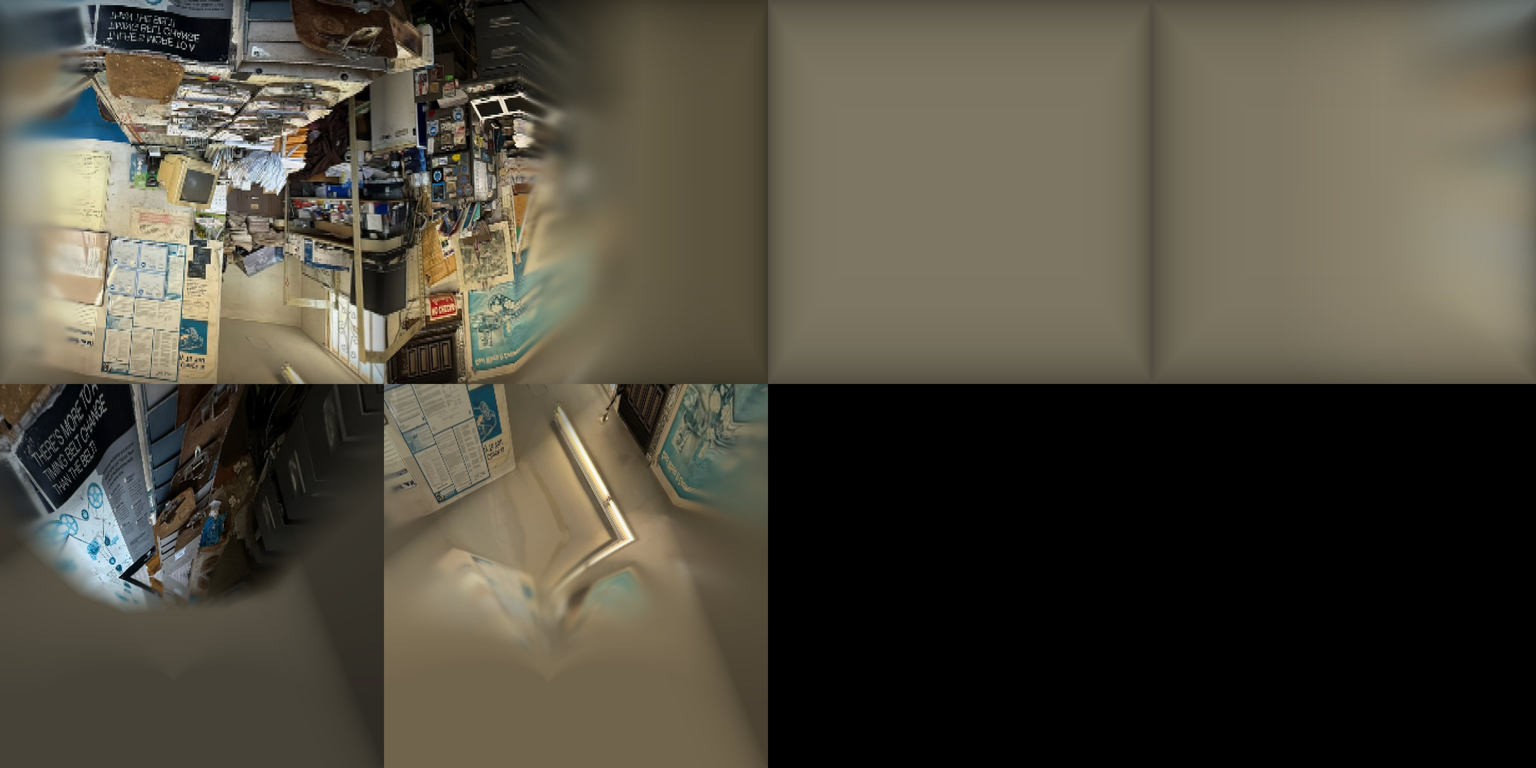
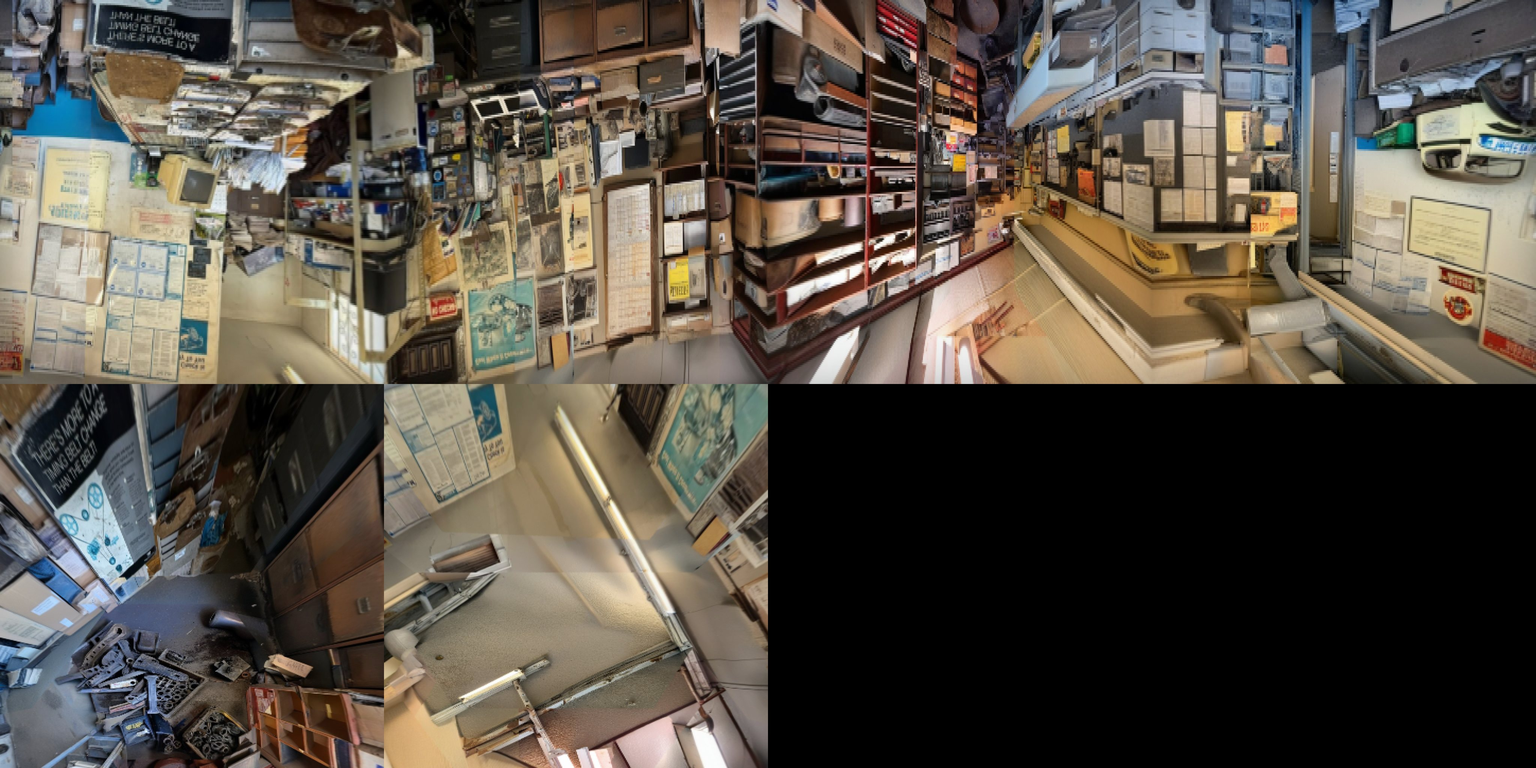
v0.6.0: surround the viewer with a generated shop
The room shell now samples a 360-degree panorama generated locally with
SDXL inpainting (scripts/outpaint_surround.py) instead of the mirrored blur.
Everything outside the photo's view is invented, not measured.

diff --git a/scripts/outpaint_surround.py b/scripts/outpaint_surround.py
@@ -1,0 +1,171 @@
+"""Generate the directions the photo never saw, as one 360-degree panorama around the eye.
+
+Local only: SDXL inpainting (diffusers/stable-diffusion-xl-1.0-inpainting-0.1, fp16) from the
+HF cache under D:\\Lustron\\models\\hf-cache. Nothing is uploaded. Generated pixels are invented.
+
+The panorama is equirectangular in the app's levelled room frame (content space: y up, -z forward):
+  lon = atan2(x, -z) (0 = straight ahead, + = to the right), lat = asin(y).
+It is seeded by projecting the photo through the corrected camera (square f, rotation from
+src/room-frame.js). Overlapping 90-degree views are then rendered from the panorama, their unknown
+pixels inpainted, and only newly generated pixels written back, so later views see earlier ones.
+
+Usage: python scripts/outpaint_surround.py <output-dir>
+Writes <out>/surround.jpg, <out>/surround-known.png (255 = photo, 128 = generated), views/*.jpg.
+"""
+import json, math, os, re, sys, time
+from pathlib import Path
+import numpy as np
+import cv2
+
+OUT = Path(sys.argv[1]); (OUT / 'views').mkdir(parents=True, exist_ok=True)
+ROOT = Path(__file__).resolve().parents[1]
+BLUNT = Path(r'D:\Lustron\experiments\BLUNT\2026-11-04_repair-office-single-image')
+PW, PH = 4096, 2048           # panorama size
+VIEW, FOV = 1024, 90.0        # generated view size and field of view
+F_SQUARE = 700.0              # square-pixel focal length at depth-map resolution (see make_room_shell.py)
+
+frame = (ROOT / 'src' / 'room-frame.js').read_text(encoding='utf-8')
+quat = json.loads(re.search(r'rotation: (\[[^\]]+\])', frame).group(1))
+from scipy.spatial.transform import Rotation
+R = Rotation.from_quat(quat).as_matrix()      # camera (y down, z forward) -> content
+K = np.load(BLUNT / 'output' / 'predicted-intrinsics.npy'); cx, cy = float(K[0, 2]), float(K[1, 2])
+photo = cv2.imread(str(BLUNT / 'input' / 'source.jpg'))   # BGR, 1536x2048
+ph, pw = photo.shape[:2]; sx = pw / (2 * cx); sy = ph / (2 * cy)
+
+def pano_dirs():
+    lon = (np.arange(PW) + 0.5) / PW * 2 * np.pi - np.pi
+    lat = np.pi / 2 - (np.arange(PH) + 0.5) / PH * np.pi
+    LON, LAT = np.meshgrid(lon, lat)
+    return np.stack([np.cos(LAT) * np.sin(LON), np.sin(LAT), -np.cos(LAT) * np.cos(LON)], -1)
+
+def dir_to_pano(d):
+    lon = np.arctan2(d[..., 0], -d[..., 2]); lat = np.arcsin(np.clip(d[..., 1], -1, 1))
+    return ((lon + np.pi) / (2 * np.pi) * PW - 0.5).astype(np.float32), ((np.pi / 2 - lat) / np.pi * PH - 0.5).astype(np.float32)
+
+# Seed with the photo.
+D = pano_dirs()
+cam = D @ R            # rows: content dir -> camera coords (R.T @ d)
+with np.errstate(divide='ignore', invalid='ignore'):
+    pu = F_SQUARE * cam[..., 0] / cam[..., 2] + cx; pv = F_SQUARE * cam[..., 1] / cam[..., 2] + cy
+inside = (cam[..., 2] > 0) & (pu >= 0.5) & (pu <= 2 * cx - 0.5) & (pv >= 0.5) & (pv <= 2 * cy - 0.5)
+pano = np.zeros((PH, PW, 3), np.uint8)
+mx = np.where(inside, pu * sx, -1).astype(np.float32); my = np.where(inside, pv * sy, -1).astype(np.float32)
+pano[:] = cv2.remap(photo, mx, my, cv2.INTER_LINEAR, borderMode=cv2.BORDER_CONSTANT)
+known = np.where(inside, 255, 0).astype(np.uint8)
+print(f'photo covers {inside.mean() * 100:.1f}% of the sphere', flush=True)
+
+def view_basis(yaw, pitch):
+    """Rotation whose columns are the view's right, up and back (+z) axes in content space."""
+    y, p = math.radians(yaw), math.radians(pitch)
+    Ry = np.array([[math.cos(y), 0, -math.sin(y)], [0, 1, 0], [math.sin(y), 0, math.cos(y)]])  # + yaw turns right
+    Rx = np.array([[1, 0, 0], [0, math.cos(p), -math.sin(p)], [0, math.sin(p), math.cos(p)]])   # + pitch looks up
+    return Ry @ Rx
+
+t = math.tan(math.radians(FOV) / 2)
+g = ((np.arange(VIEW) + 0.5) / VIEW * 2 - 1) * t
+GX, GY = np.meshgrid(g, -g)
+local = np.stack([GX, GY, -np.ones_like(GX)], -1); local /= np.linalg.norm(local, axis=-1, keepdims=True)
+
+def render(B):
+    d = local @ B.T
+    mxv, myv = dir_to_pano(d)
+    img = cv2.remap(pano, mxv, myv, cv2.INTER_LINEAR, borderMode=cv2.BORDER_WRAP)
+    msk = cv2.remap(known, mxv, myv, cv2.INTER_NEAREST, borderMode=cv2.BORDER_WRAP)
+    return img, msk
+
+def write_back(B, gen, gmask):
+    """Write generated pixels into unknown panorama pixels that this view sees."""
+    global pano, known
+    v = D @ B   # panorama directions in view coords
+    with np.errstate(divide='ignore', invalid='ignore'):
+        x = v[..., 0] / -v[..., 2]; y = v[..., 1] / -v[..., 2]
+    lim = t * 0.97
+    sel = (v[..., 2] < 0) & (np.abs(x) < lim) & (np.abs(y) < lim) & (known == 0)
+    gx = ((x / t + 1) / 2 * VIEW - 0.5).astype(np.float32); gy = ((-y / t + 1) / 2 * VIEW - 0.5).astype(np.float32)
+    sample = cv2.remap(gen, gx, gy, cv2.INTER_LINEAR, borderMode=cv2.BORDER_REFLECT)
+    pano[sel] = sample[sel]; known[sel] = 128
+    return int(sel.sum())
+
+BASE = ('photo inside a cluttered old auto repair shop office, faded car parts posters and notices on the walls, '
+        'shelves of boxes and parts, warm fluorescent light, realistic phone photo')
+NEG = 'people, person, hands, face, text, watermark, logo, blurry, distorted, fisheye, cartoon, painting, render, oversaturated'
+VIEWS = [  # (name, yaw, pitch, extra prompt) in order; each sees earlier results
+    ('front', 0, 0, 'cluttered service counter, posters'),
+    ('right-60', 60, 0, 'poster-covered wall, shelves of parts and boxes, office desk with old computer'),
+    ('left-60', -60, 0, 'poster-covered wall, filing cabinets, framed certificates, notice board'),
+    ('right-120', 120, 0, 'wall with shelves and a doorway to the repair garage'),
+    ('left-120', -120, 0, 'wall with a parts catalogue rack, chairs for customers'),
+    ('back', 180, 0, 'the shop front: glass entry door and a window with blinds, a customer chair, a small table with magazines'),
+    ('up-front', 0, 60, 'white ceiling with fluorescent tube light fixtures'),
+    ('up-right', 90, 60, 'white ceiling with fluorescent tube light fixtures'),
+    ('up-back', 180, 60, 'white ceiling with fluorescent tube light fixtures'),
+    ('up-left', -90, 60, 'white ceiling with fluorescent tube light fixtures'),
+    ('zenith', 0, 90, 'plain white painted ceiling, fluorescent tube light'),
+    ('down-front', 0, -60, 'worn grey concrete floor, scuffed, base of the counter'),
+    ('down-right', 90, -60, 'worn grey concrete floor, scuffed'),
+    ('down-back', 180, -60, 'worn grey concrete floor, scuffed, a rubber floor mat'),
+    ('down-left', -90, -60, 'worn grey concrete floor, scuffed'),
+    ('nadir', 0, -90, 'worn grey concrete floor seen from above, scuffed, a rubber floor mat'),
+]
+
+import torch
+from diffusers import StableDiffusionXLInpaintPipeline
+MODEL = Path(r'D:\Lustron\models\sdxl-inpainting-0.1')   # local copy of diffusers/stable-diffusion-xl-1.0-inpainting-0.1
+pipe = StableDiffusionXLInpaintPipeline.from_pretrained(str(MODEL), torch_dtype=torch.float16, variant='fp16', local_files_only=True)
+# Desktop apps hold ~2.5 GB of the 12 GB card; a full GPU load spilled into shared memory and stalled
+# (attempt 2 check hung >4 min on the second view). Offload keeps only the active part on the GPU.
+pipe.enable_model_cpu_offload(); pipe.set_progress_bar_config(disable=True)
+log = []
+start = time.time()
+LIMIT = int(os.environ.get("VIEW_LIMIT", len(VIEWS)))   # for quick checks
+for i, (name, yaw, pitch, extra) in enumerate(VIEWS[:LIMIT]):
+    B = view_basis(yaw, pitch)
+    img, msk = render(B)
+    unknown = (msk == 0).astype(np.uint8)
+    if unknown.mean() < 0.002:
+        log.append({'view': name, 'skipped': 'already known'}); continue
+    # Repaint a 12 px band of known pixels too, so the new content blends into what is there.
+    paint = cv2.dilate(unknown, np.ones((25, 25), np.uint8))
+    # Attempt 1 passed black holes and the model (strength 0.99) kept them nearly black. Pre-fill the
+    # holes with the surrounding colours (Telea at low resolution, blurred) plus noise to repaint from.
+    rng = np.random.default_rng(1105 + i)
+    if (unknown == 0).mean() > 0.01:
+        small = cv2.inpaint(cv2.resize(img, (256, 256), interpolation=cv2.INTER_AREA),
+                            cv2.resize(unknown, (256, 256), interpolation=cv2.INTER_NEAREST), 20, cv2.INPAINT_TELEA)
+        base = cv2.GaussianBlur(cv2.resize(small, (VIEW, VIEW), interpolation=cv2.INTER_CUBIC).astype(np.float32), (0, 0), 10)
+    else:
+        base = np.full((VIEW, VIEW, 3), (112, 128, 142), np.float32)   # BGR warm grey: plaster wall tone
+    pre = np.clip(base + rng.normal(0, 20, base.shape), 0, 255).astype(np.uint8)
+    seeded = np.where(unknown[..., None] > 0, pre, img)
+    from PIL import Image
+    for attempt in range(3):   # retry if the new area still comes out dark
+        gen = pipe(prompt=f'{BASE}, {extra}', negative_prompt=NEG,
+                   image=Image.fromarray(cv2.cvtColor(seeded, cv2.COLOR_BGR2RGB)), mask_image=Image.fromarray(paint * 255),
+                   width=VIEW, height=VIEW, num_inference_steps=32, guidance_scale=7.0, strength=0.99,
+                   generator=torch.Generator('cuda').manual_seed(1105 + i + 100 * attempt)).images[0]
+        gen = cv2.cvtColor(np.array(gen), cv2.COLOR_RGB2BGR)
+        new_mean = float(gen[unknown > 0].mean()) if unknown.any() else 255.0
+        if new_mean > 45: break
+        print(json.dumps({'view': name, 'retry': attempt + 1, 'new_area_mean': round(new_mean, 1)}), flush=True)
+    # Keep known pixels exactly; feather the generated band into them.
+    soft = cv2.GaussianBlur(paint.astype(np.float32), (0, 0), 6)[..., None]
+    w = np.maximum(soft, unknown[..., None].astype(np.float32))
+    blended = (gen * w + img * (1 - w)).astype(np.uint8)
+    cv2.imwrite(str(OUT / 'views' / f'{i:02d}-{name}.jpg'), blended, [cv2.IMWRITE_JPEG_QUALITY, 90])
+    cv2.imwrite(str(OUT / 'views' / f'{i:02d}-{name}-mask.png'), unknown * 255)
+    n = write_back(B, blended, unknown)
+    log.append({'view': name, 'yaw': yaw, 'pitch': pitch, 'unknown_fraction': round(float(unknown.mean()), 3), 'written': n,
+                'new_area_mean': round(new_mean, 1), 'attempts': attempt + 1,
+                'seconds': round(time.time() - start, 1)})
+    print(json.dumps(log[-1]), flush=True)
+
+# Any remaining holes (seams at the poles) get filled by inpainting in panorama space.
+holes = (known == 0).astype(np.uint8)
+if holes.any(): pano = cv2.inpaint(pano, holes, 5, cv2.INPAINT_TELEA)
+cv2.imwrite(str(OUT / 'surround.jpg'), pano, [cv2.IMWRITE_JPEG_QUALITY, 90])
+cv2.imwrite(str(OUT / 'surround-known.png'), known)
+json.dump({'model': 'diffusers/stable-diffusion-xl-1.0-inpainting-0.1 fp16', 'panorama': [PW, PH], 'view': [VIEW, FOV],
+           'focal': F_SQUARE, 'rotation_quat': quat, 'photo_fraction': float(inside.mean()), 'holes_after_views': int(holes.sum()),
+           'views': log, 'seconds': round(time.time() - start, 1), 'base_prompt': BASE, 'negative_prompt': NEG},
+          open(OUT / 'surround.json', 'w'), indent=1)
+print('done', round(time.time() - start, 1), 's', flush=True)

diff --git a/README.md b/README.md
@@ -9,7 +9,7 @@ On a Quest, open either link in Quest Browser, wait for the room to load, then p
 
 ## What's in the scene
 
-The office is a single-image reconstruction. One photo was lifted to 3D Gaussians with depth from Depth Anything 3. The photo covers only about 60 degrees of view. A room shell (floor, ceiling and walls fitted to the depth) surrounds the viewer, textured with the photo where it saw the room and a soft mirrored continuation beyond, so there's no empty space past the photo's edges. Everything outside the photo's view is invented, not measured.
+The office is a single-image reconstruction. One photo was lifted to 3D Gaussians with depth from Depth Anything 3. The photo covers only about 60 degrees of view. A room shell (floor, ceiling and walls fitted to the depth) surrounds the viewer. It's textured with the photo where the photo saw the room. Everywhere else it uses a 360-degree shop panorama generated locally with SDXL inpainting (`scripts/outpaint_surround.py`): shelving behind you, a workbench and poster wall to the left, and a fluorescent ceiling. So there's no empty space past the photo's edges. Everything outside the photo's view is invented by the model, not measured.
 
 `src/room-frame.js` corrects the reconstruction's unequal focal lengths to square pixels, levels the room from its ceiling, and sets scale from a 1.4 m handheld eye height. A CRT monitor in the scene comes out about 35 cm wide.
 
@@ -34,6 +34,7 @@ For a Quest over USB (developer mode, USB debugging allowed), run `Start-Office.
 | `src/room-frame.js` | Generated room transform (from `scripts/make_room_shell.py`) |
 | `scripts/bake-type.mjs` | Bakes the 3D letters with Three.js `TextGeometry` at build time |
 | `scripts/make_room_shell.py` | Fits the room surfaces and bakes the shell texture (needs the source depth map, not included) |
+| `scripts/outpaint_surround.py` | Generates the surround panorama the shell samples (`--surround`); needs the source photo and a local SDXL inpainting model, not included |
 | `public/assets/` | Scene (compressed PLY, full and 300K), letters, shell and reflection map |
 
 Licences: the Anton font is under the SIL Open Font License (`public/FONT-LICENSE.txt`), and PlayCanvas is MIT.
